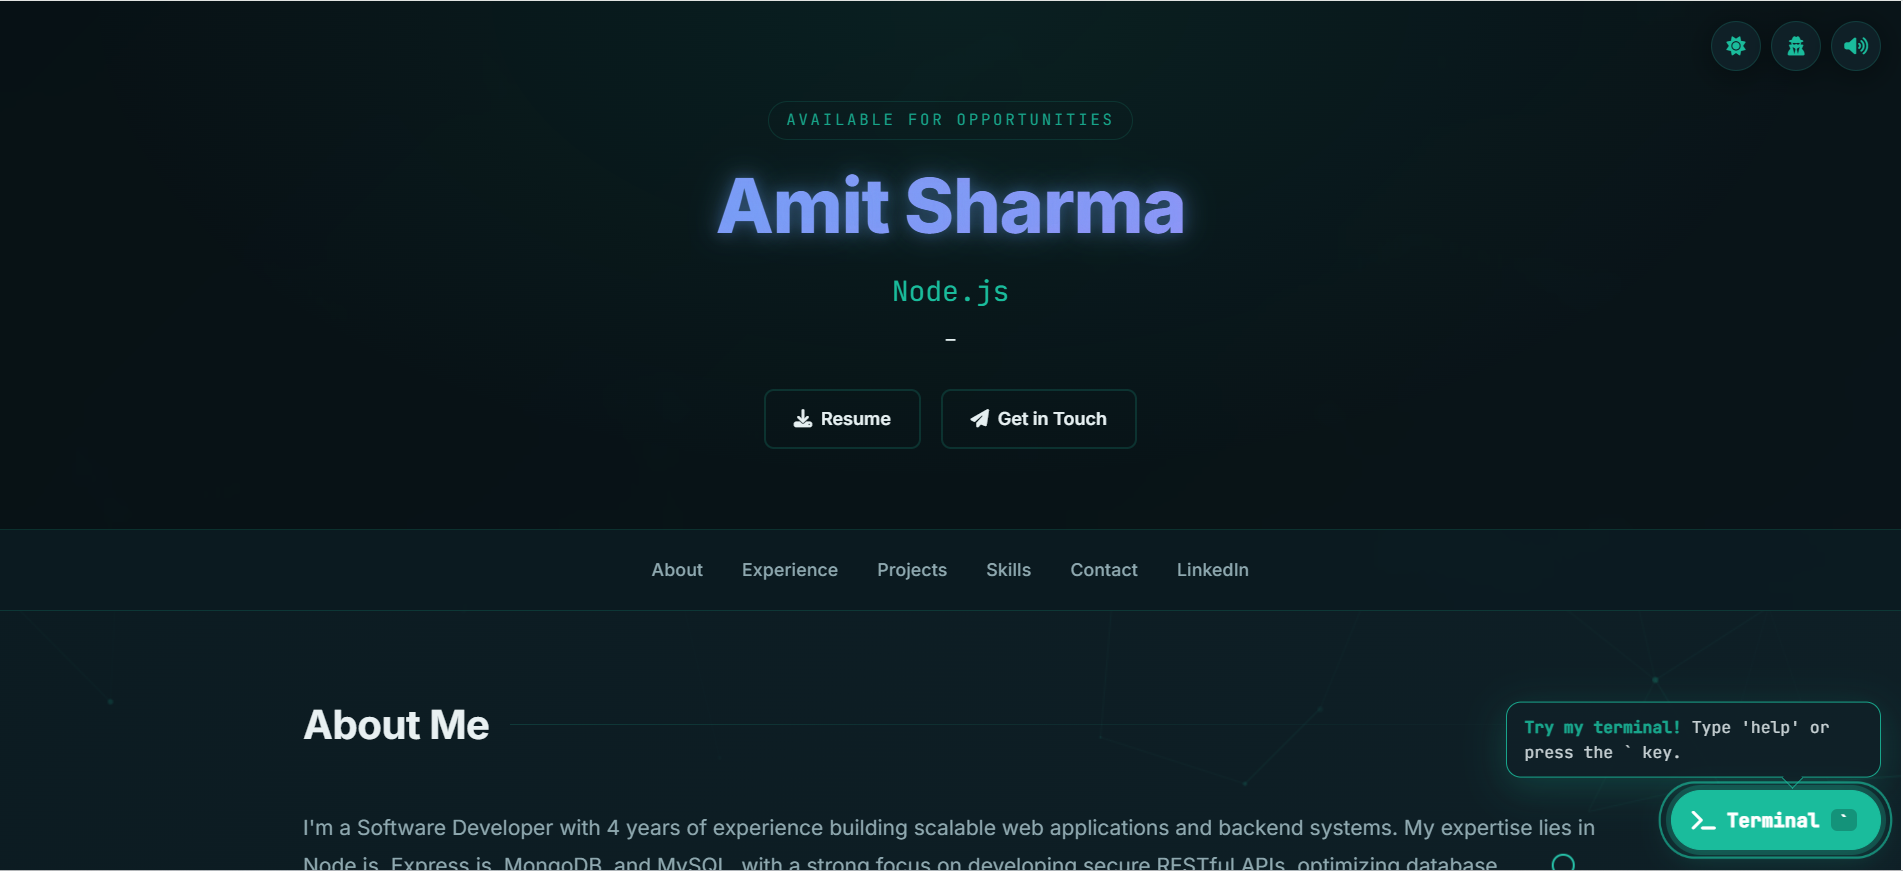
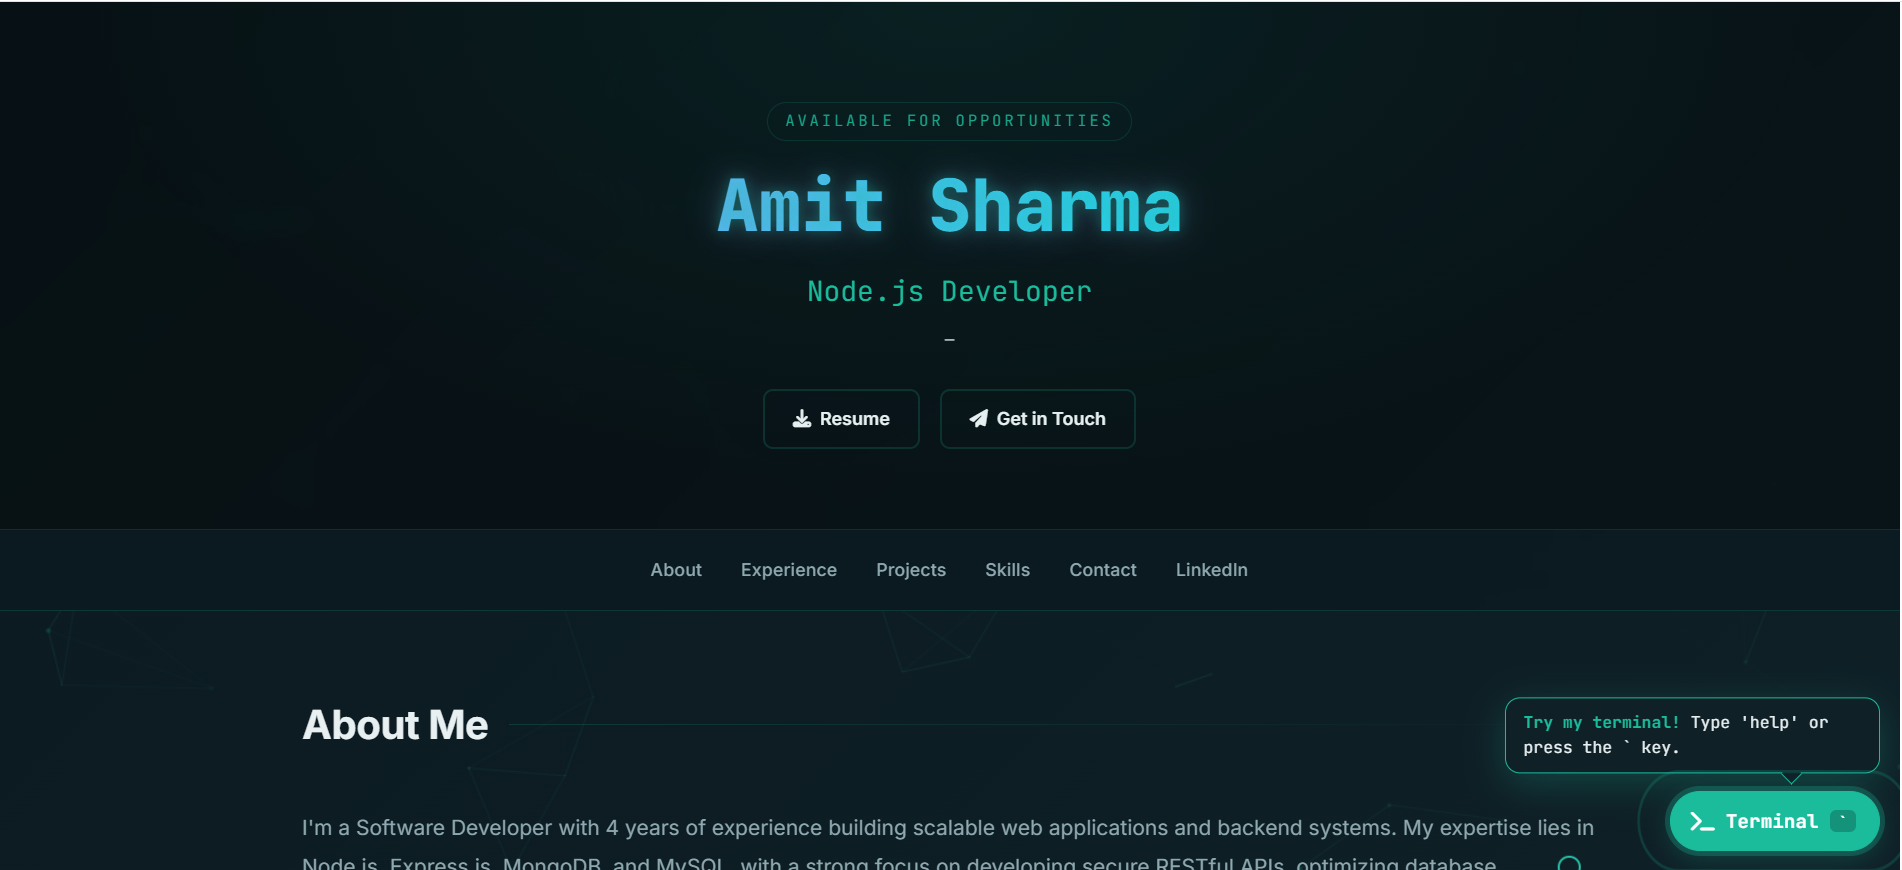
portfolio updated

diff --git a/features.js b/features.js
@@ -714,18 +714,10 @@
      DOCK  (terminal / theme / hacker / sound buttons)
      --------------------------------------------------------- */
   var UI = {
-    dock: null, top: null, hint: null, b: {},
+    dock: null, hint: null, b: {},
     build: function () {
       var self = this, launch;
-      function round(parent, id, label, icon, fn) {
-        var b = h('button', { 'class': 'pf-round', type: 'button', title: label, 'aria-label': label, 'data-sfx': '1' });
-        b.appendChild(h('i', { 'class': 'fas ' + icon }));
-        b.addEventListener('click', fn);
-        self.b[id] = b;
-        parent.appendChild(b);
-      }
-      this.dock = h('div', { 'class': 'pf-dock pf-ui' });   // bottom-left
-      this.top = h('div', { 'class': 'pf-top pf-ui' });     // top-right
+      this.dock = h('div', { 'class': 'pf-dock pf-ui' });   // bottom-right (launcher only)
 
       launch = h('button', {
         'class': 'pf-launch', type: 'button', title: 'Open terminal ( ` )', 'aria-label': 'Open terminal',
@@ -737,16 +729,9 @@
       launch.addEventListener('click', function () { Term.toggle(); });
       this.b.term = launch;
       this.dock.appendChild(launch);
-
-      round(this.top, 'theme', 'Switch theme', 'fa-sun', function () { Theme.toggleBase(); Sound.play('toggle'); });
-      round(this.top, 'hacker', 'Toggle hacker mode', 'fa-user-secret', function () {
-        Theme.setHacker(!Theme.hacker); Sound.play(Theme.hacker ? 'success' : 'toggle');
-      });
-      round(this.top, 'sound', 'Mute sound', 'fa-volume-high', function () {
-        Sound.setMuted(!Sound.muted); self.sync(); Sound.play('click');
-      });
       doc.body.appendChild(this.dock);
-      doc.body.appendChild(this.top);
+      // Theme, hacker mode and sound have no on-screen buttons; use the terminal
+      // (theme <dark|light|hacker>, matrix, sound <on|off>) or the Konami code.
 
       // attention bubble above the launcher (after the boot screen, until the terminal is opened)
       this.hint = h('div', { 'class': 'pf-hint pf-ui', role: 'note' });
@@ -761,17 +746,10 @@
     },
     hideHint: function () { if (this.hint) this.hint.classList.remove('is-on'); },
     sync: function () {
-      var b = this.b, light = Theme.base === 'light';
-      if (!this.dock) return;
+      var b = this.b;
+      if (!this.dock || !b.term) return;
       b.term.classList.toggle('is-open', Term.isOpen);
       b.term.setAttribute('aria-expanded', String(Term.isOpen));
-      b.theme.firstChild.className = 'fas ' + (light ? 'fa-moon' : 'fa-sun');
-      b.theme.title = light ? 'Switch to dark theme' : 'Switch to light theme';
-      b.theme.setAttribute('aria-label', b.theme.title);
-      b.hacker.setAttribute('aria-pressed', String(Theme.hacker));
-      b.sound.firstChild.className = 'fas ' + (Sound.muted ? 'fa-volume-xmark' : 'fa-volume-high');
-      b.sound.title = Sound.muted ? 'Unmute sound' : 'Mute sound';
-      b.sound.setAttribute('aria-label', b.sound.title);
     }
   };
 
@@ -1099,6 +1077,53 @@
   };
 
   /* ---------------------------------------------------------
+     NAME MORPH: glowing terminal text decrypts, then "compiles" into the platinum italic name.
+     The real <h1> text is never changed (SEO / screen readers / terminal all keep "Amit Sharma");
+     the terminal text is a separate decorative layer that fades away.
+     --------------------------------------------------------- */
+  var NameFX = {
+    /* Decrypt effect only: characters scramble in, but the font/colour never changes
+       (the header stays JetBrains Mono with the flowing gradient throughout). Since
+       every glyph is the same fixed width, scrambling never shifts the layout.
+       The heading is hidden by default (see style.css) and only revealed once it
+       already holds scrambled text, so the plain name is never shown first. */
+    GLYPHS: 'ABCDEFGHIJKLMNOPQRSTUVWXYZ0123456789#$%&@*+=<>',
+
+    reveal: function (h1) { h1.classList.add('pf-name-ready'); },
+
+    init: function () {
+      var self = this, h1 = $('header h1'), text;
+      if (!h1) return;
+      text = clean(h1.textContent);
+      if (!text || reduceMotion) { this.reveal(h1); return; }
+      h1.setAttribute('aria-label', text);          // screen readers get the real name even mid-scramble
+      whenBootDone(function () {
+        try { self.run(h1, text); } catch (e) { h1.textContent = text; self.reveal(h1); }
+      });
+    },
+
+    run: function (h1, text) {
+      var self = this, n = text.length, frame = 0, total = 34;
+      h1.textContent = this.scramble(text, 0);
+      this.reveal(h1);                              // first paint after this is already scrambled, never plain
+      var id = setInterval(function () {
+        frame++;
+        h1.textContent = self.scramble(text, Math.floor((frame / total) * n));
+        if (frame > total) { clearInterval(id); h1.textContent = text; }
+      }, 40);
+    },
+
+    scramble: function (text, revealCount) {
+      var out = '', i, ch;
+      for (i = 0; i < text.length; i++) {
+        ch = text.charAt(i);
+        out += (ch === ' ' || i < revealCount) ? ch : this.GLYPHS.charAt(Math.floor(Math.random() * this.GLYPHS.length));
+      }
+      return out;
+    }
+  };
+
+  /* ---------------------------------------------------------
      GLOBAL WIRING
      --------------------------------------------------------- */
   function isTyping(t) {
@@ -1106,6 +1131,7 @@
   }
 
   function init() {
+    NameFX.init();
     UI.build();
     Fun.build();
     Theme.apply();
@@ -1140,7 +1166,7 @@
 
     // make the site's custom cursor ring react over the new controls too
     var ring = $('#cursor');
-    var HOVER = '.pf-dock button, .pf-top button, .pf-fun button, .pf-hire-btn, .pf-term-close, .pf-rm-opt, .pf-rm-x';
+    var HOVER = '.pf-dock button, .pf-fun button, .pf-hire-btn, .pf-term-close, .pf-rm-opt, .pf-rm-x';
     if (ring) {
       doc.addEventListener('mouseover', function (e) { if (e.target.closest && e.target.closest(HOVER)) ring.classList.add('hovered'); });
       doc.addEventListener('mouseout', function (e) { if (e.target.closest && e.target.closest(HOVER)) ring.classList.remove('hovered'); });

diff --git a/features.css b/features.css
@@ -39,7 +39,7 @@ html[data-theme="light"] nav { background: rgba(244, 248, 249, 0.88); }
 html[data-theme="light"] header { background: rgba(255, 255, 255, 0.55); }
 html[data-theme="light"] footer { background: rgba(20, 38, 45, 0.05); }
 html[data-theme="light"] header h1 {
-  background-image: linear-gradient(90deg, #0b8a72, #2563eb, #7c3aed, #0891b2, #0b8a72);
+  background-image: linear-gradient(90deg, #0b8a72, #2563eb, #7c3aed, #0891b2, #0b8a72, #2563eb, #0b8a72);
   text-shadow: none;
 }
 html[data-theme="light"] .custom-cursor { mix-blend-mode: normal; }
@@ -70,7 +70,7 @@ html[data-theme="hacker"] nav { background: rgba(0, 0, 0, 0.85); }
 html[data-theme="hacker"] header { background: rgba(0, 0, 0, 0.55); }
 html[data-theme="hacker"] footer { background: rgba(0, 0, 0, 0.6); }
 html[data-theme="hacker"] header h1 {
-  background-image: linear-gradient(90deg, #eaffef, #00ff41, #7dffa0, #00ff41, #eaffef);
+  background-image: linear-gradient(90deg, #eaffef, #9dffb5, #00ff41, #7dffa0, #00ff41, #9dffb5, #eaffef);
   text-shadow: 0 0 14px rgba(0, 255, 65, 0.45);
 }
 html[data-theme="hacker"] .btn-primary,
@@ -105,8 +105,10 @@ html[data-theme="hacker"] .pf-toast {
 }
 
 /* ==========================================================
-   DOCK  (bottom-right, where the chatbot used to be: terminal launcher)
-   TOP   (top-right: theme + hacker + sound buttons)
+   DOCK  (bottom-right, where the chatbot used to be: terminal launcher only.
+   Theme, hacker mode and sound have no on-screen buttons; they're reachable
+   through the terminal (theme <dark|light|hacker>, matrix, sound <on|off>)
+   or the Konami code — the underlying features are all still there.)
    ========================================================== */
 .pf-dock {
   position: fixed;
@@ -117,33 +119,6 @@ html[data-theme="hacker"] .pf-toast {
   align-items: center;
   gap: 10px;
 }
-.pf-top {
-  position: fixed;
-  top: 16px;
-  right: 16px;
-  z-index: 9990;
-  display: flex;
-  gap: 8px;
-}
-.pf-round {
-  width: 40px;
-  height: 40px;
-  border-radius: 50%;
-  border: 1px solid var(--border);
-  background: var(--bg-mid);
-  color: var(--accent);
-  font-size: 0.95rem;
-  display: inline-flex;
-  align-items: center;
-  justify-content: center;
-  cursor: pointer;
-  box-shadow: var(--shadow);
-  transition: transform 0.2s ease, box-shadow 0.2s ease, background 0.2s ease;
-}
-.pf-round:hover { transform: translateY(-2px); box-shadow: 0 0 16px var(--accent-glow); background: var(--bg-card-hover); }
-.pf-round:focus-visible, .pf-launch:focus-visible { outline: 2px solid var(--accent); outline-offset: 3px; }
-.pf-round[aria-pressed="true"] { background: var(--accent); color: #fff; }
-html[data-theme="hacker"] .pf-round[aria-pressed="true"] { color: #000; }
 
 /* --- terminal launcher: filled, pulsing, hard to miss --- */
 .pf-launch {
@@ -166,6 +141,7 @@ html[data-theme="hacker"] .pf-round[aria-pressed="true"] { color: #000; }
   transition: transform 0.2s ease, box-shadow 0.2s ease, background 0.2s ease;
 }
 .pf-launch:hover { transform: translateY(-2px) scale(1.04); background: var(--accent-dark); border-color: var(--accent-dark); }
+.pf-launch:focus-visible { outline: 2px solid var(--accent); outline-offset: 3px; }
 .pf-launch i { font-size: 1.05rem; }
 .pf-launch kbd {
   font-family: var(--font-mono);
@@ -411,13 +387,6 @@ html.pf-disco { animation: pf-disco-kf 1.2s linear 3; }
 /* ==========================================================
    MOBILE
    ========================================================== */
-@media (max-width: 819px) {
-  /* on tablets/phones the nav fills the width, so these scroll with the hero instead of covering the nav links */
-  .pf-top { position: absolute; top: 10px; right: 10px; }
-}
-@media (max-width: 560px) {
-  .pf-top .pf-round { width: 36px; height: 36px; font-size: 0.85rem; }
-}
 @media (max-width: 480px) {
   .pf-term { left: 8px; right: 8px; width: auto; bottom: 72px; height: min(70vh, 560px); }
   .pf-dock { right: 8px; bottom: 12px; }

diff --git a/style.css b/style.css
@@ -132,19 +132,24 @@ header::before {
 } */
 
 header h1 {
-  font-size: clamp(2.2rem, 6vw, 3.8rem);
+  opacity: 0;
+  transition: opacity 0.4s ease;
+  font-family: var(--font-mono);
+  font-size: clamp(1.9rem, 6.4vw, 3.6rem);
   font-weight: 800;
-  letter-spacing: -0.02em;
-  line-height: 1.1;
+  letter-spacing: -0.01em;
+  line-height: 1.15;
   margin-bottom: 1rem;
 
   background: linear-gradient(
     90deg,
-    #ffffff,
+    #eafff8,
+    #1abc9c,
     #60a5fa,
     #a78bfa,
     #22d3ee,
-    #ffffff
+    #1abc9c,
+    #eafff8
   );
   background-size: 300% auto;
 
@@ -153,9 +158,9 @@ header h1 {
   background-clip: text;
 
   text-shadow:
-  0 0 10px rgba(96, 165, 250, 0.25),
-  0 0 20px rgba(167, 139, 250, 0.2),
-  0 0 30px rgba(34, 211, 238, 0.15);
+  0 0 10px rgba(26, 188, 156, 0.35),
+  0 0 22px rgba(96, 165, 250, 0.2),
+  0 0 34px rgba(167, 139, 250, 0.15);
 
   animation: gradientShift 12s ease infinite;
 }
@@ -395,13 +400,13 @@ h2 {
 }
 
 .timeline-card h3 {
-  font-size: 1.05rem;
+  font-size: 1rem;
   font-weight: 700;
   margin-bottom: 0.25rem;
 }
 
 .timeline-card h3 a {
-  color: var(--text-primary);
+  color: var(--accent);
 }
 
 .timeline-card h3 a:hover { color: var(--accent); }
@@ -837,3 +842,5 @@ footer span { color: var(--accent); }
   .boot-body { font-size: 0.72rem; padding: 14px; min-height: 300px; }
   .boot-progress { font-size: 0.68rem; }
 }
+
+header h1.pf-name-ready { opacity: 1; }

diff --git a/index.html b/index.html
@@ -65,10 +65,11 @@
   <!-- Google Fonts -->
   <link rel="preconnect" href="https://fonts.googleapis.com">
   <link rel="preconnect" href="https://fonts.gstatic.com" crossorigin>
-  <link href="https://fonts.googleapis.com/css2?family=Inter:wght@400;500;600;700;800&family=JetBrains+Mono:wght@400;500&display=swap" rel="stylesheet">
+  <link href="https://fonts.googleapis.com/css2?family=Inter:wght@400;500;600;700;800&family=JetBrains+Mono:wght@400;500;700;800&display=swap" rel="stylesheet">
 
   <link rel="stylesheet" href="style.css" />
   <link rel="stylesheet" href="features.css" />
+  <noscript><style>header h1 { opacity: 1 !important; }</style></noscript>
 
   <!-- AOS CSS -->
   <link href="https://cdnjs.cloudflare.com/ajax/libs/aos/2.3.4/aos.css" rel="stylesheet">
